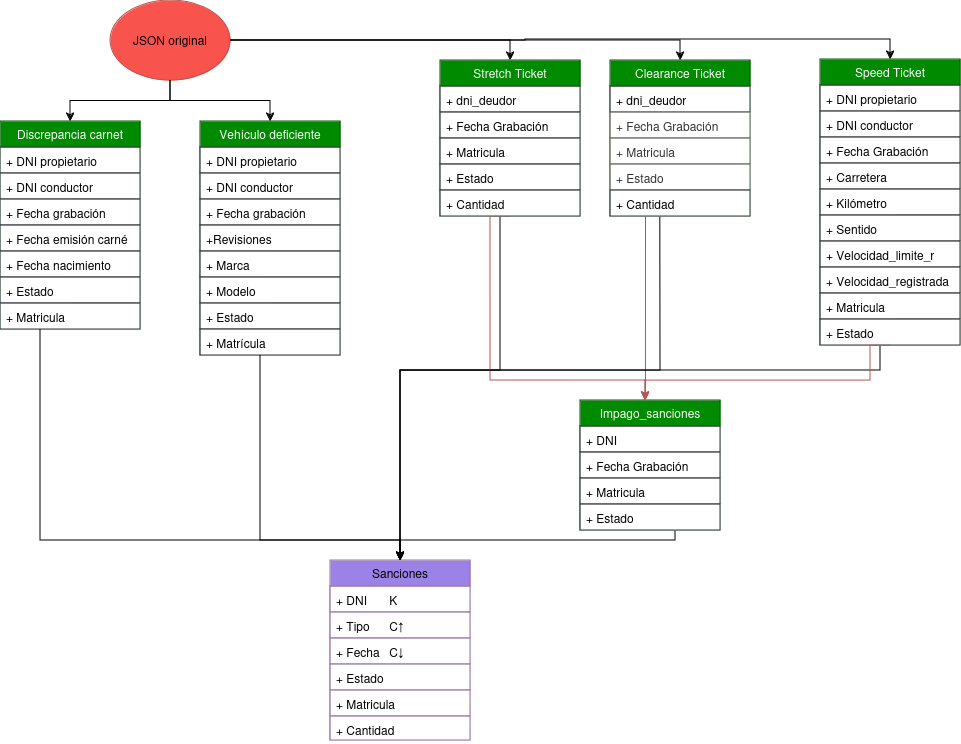
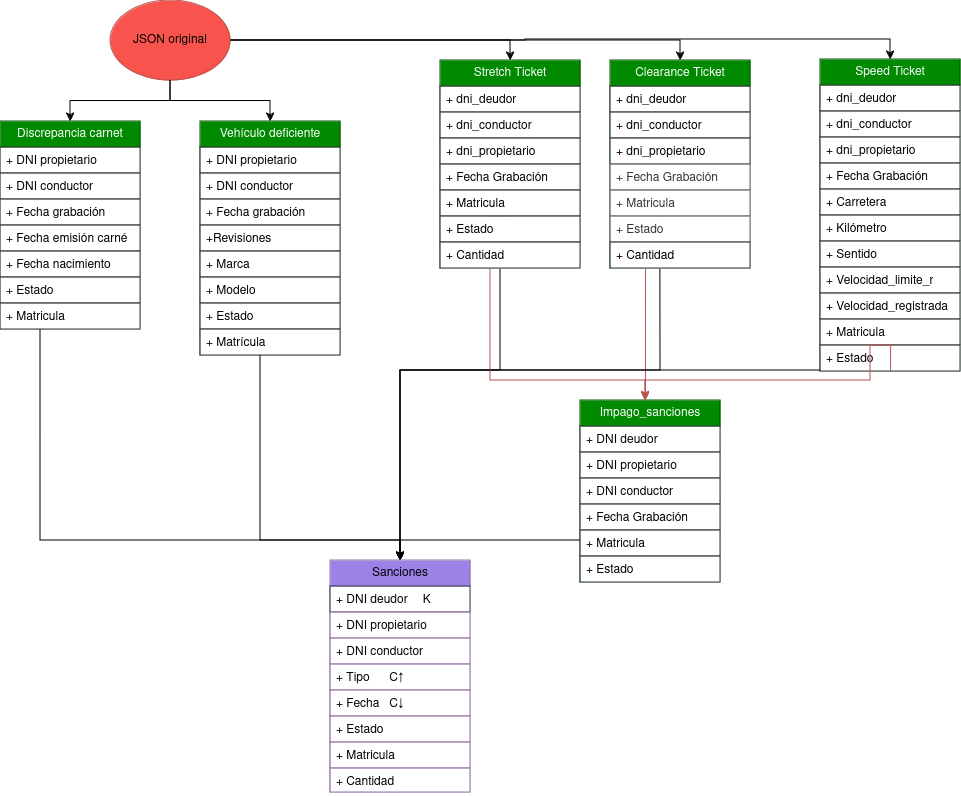
punto 4 corregido

Changed region(s): [[0.0, 0.0309, 1.0, 0.9892], [0.4058, 0.4637, 0.437, 0.4946], [0.2497, 0.711, 0.281, 0.7419]]

diff --git a/entregable3/docs/memoria.tex b/entregable3/docs/memoria.tex
@@ -13,6 +13,16 @@
 \usepackage{amsmath}
 
 
+% Configurar el color de los enlaces
+\hypersetup{
+    colorlinks=true, % Activa el color en los enlaces
+    linkcolor=blue,  % Color para los enlaces internos (por ejemplo, tablas de contenido)
+    citecolor=black,  % Color para las citas bibliográficas
+    filecolor=blue,  % Color para enlaces a archivos
+    urlcolor=blue    % Color para los enlaces a URLs
+}
+
+
 \definecolor{miverde}{rgb}{0,0.6,0}
 \definecolor{miazul}{rgb}{0.5,0.5,1}
 \lstdefinelanguage{cql}{
@@ -84,8 +94,10 @@
 \newpage
 
 \renewcommand{\contentsname}{\centering Índice}
-\tableofcontents
 
+\hypersetup{linkcolor=black}
+\tableofcontents
+\hypersetup{linkcolor=blue}
 \newpage
 
 \section{Introducción}
@@ -399,33 +411,62 @@ select conductor_igual_propietario, count(*) from probabilidad_infraccion GROUP 
 
 \section{Modelo Lógico y Físico}
 \label{sec:modelo_logico_fisico}
+
 Tras presentar los casos de uso y cómo estos casos de uso derivan en sus
 respectivas consultas y tablas, estudiaremos cómo se ha realizado el modelo
-completo del sistema para conseguir las tablas antes mencionadas se carguen con
+completo del sistema para conseguir que dichas tablas se carguen con
 los datos necesarios.
 
 \subsection{Modelo Lógico}
 
-El primer enfoque que se ha considerado es conseguir alimentar la tabla \textbf{Sanciones} con aquellas personas que tenga algún tipo de sanción. Por lo que para alimentar esta tabla tenemos que tratar dos grupos de sanciones: sanciones generadas y sanciones emitidas previamente.
+El primer enfoque que se ha considerado es conseguir alimentar la tabla
+\textbf{Sanciones} con aquellas personas que tenga algún tipo de sanción. Por
+lo que para alimentar esta tabla tenemos que tratar dos grupos de sanciones:
+sanciones generadas y sanciones emitidas previamente.
+
 \begin{itemize}
-    \item \textbf{Sanciones ya generadas}: En los datos originales encontramos sanciones ya emitidas con anterioridad como lo son \textit{Speed Ticket}, \textit{Clearance Ticket} y \textit{Stretch Ticket}, por lo que ha creado un \textit{dataframe} en \textit{Pyspark} para cada una de estas multas.
-    \item \textbf{Nuevas sanciones}: Para generar nuevas sanciones se han contemplado las condiciones anteriormente mencionadas, y para cada una de estas se ha generado un \textit{dataframe} en \textit{Pyspark} que parte de los datos del \textit{JSON}, excepto para el caso de \textit{impago de sanciones} que utilizará los dataframes de las multas para conocer qué conductores deben de recibir otra infracción. En cada uno de los \textit{dataframes} se insertarán los datos que cumplan la condición, de manera que solo contengan los datos de aquellos conductores infractores. Finalmente los \textit{dataframes} creados han sido los siguientes: \texttt{Discrepancia\_Carnet}, \texttt{Vehiculo\_Deficiente}, \texttt{Impago\_Sanciones}
+    \item \textbf{Sanciones ya generadas}: En los datos originales encontramos
+    sanciones ya emitidas con anterioridad como lo son \textit{Speed Ticket},
+    \textit{Clearance Ticket} y \textit{Stretch Ticket}, por lo que ha creado
+    un \textit{dataframe} en \textit{Pyspark} para cada una de estas multas.
+
+    \item \textbf{Nuevas sanciones}: Para generar nuevas sanciones se han
+    contemplado las condiciones descritas en el punto \ref{subsec:funciones_operativas}.
+    Para cada una de
+    ellas se ha generado un \textit{dataframe} en \textit{Pyspark} que parte de
+    los datos del \textit{JSON}, excepto en el caso de \textit{impago de
+    sanciones} que utilizará los dataframes de las multas para conocer qué
+    conductores deben de recibir otra infracción. En cada uno de los
+    \textit{dataframes} se insertarán los datos que cumplan la condición, de
+    manera que solo contengan los datos de aquellos conductores infractores.
+    Finalmente los \textit{dataframes} creados han sido los siguientes:
+    \texttt{Discrepancia\_Carnet}, \texttt{Vehiculo\_Deficiente},
+    \texttt{Impago\_Sanciones}
 \end{itemize}
 
-Cada de uno de los \textit{dataframes} mencionados tendrá únicamente los atributos necesarios para alimentar la tabla de \textit{Sanciones} y cualquier otra tabla que satisfaga a un caso de uso.
-La tabla \textit{Sanciones} será la unión de algunos atributos de cada una de los \textit{dataframes} mencionados y tal omo se ha indicado en el anterior punto, \textit{Sanciones} cuenta con los atributos \texttt{dni\_deudor}, \texttt{tipo}, \texttt{fecha\_grabación}, \texttt{estado}, \texttt{matricula}, \texttt{cantidad}; por lo que será necesario que los dataframes tengan esta información, o al menos pueda ser obtenida de algún modo.
-\newline
+Cada de uno de los \textit{dataframes} mencionados tendrá únicamente los
+atributos necesarios para alimentar la tabla de \textit{Sanciones} y cualquier
+otra tabla que satisfaga a un caso de uso.
+La tabla \textit{Sanciones} será la unión de algunos atributos de cada una de
+los \textit{dataframes} mencionados. Tal como se ha indicado en el anterior
+punto, \textit{Sanciones} cuenta con los atributos \texttt{dni\_deudor},
+\texttt{dni\_propietario}, \verb!dni_conductor!, \verb!fecha_grabacion!,
+\verb!matricula!, \verb!cantidad!, y \verb!estado!; por lo que será necesario que los \textit{dataframes} tengan esta
+información, o al menos pueda ser obtenida de algún modo. Esta nueva tabla será
+insertada en \texttt{Cassandra}.
 
 Para ello los \textit{dataframes} anteriores contarán con \texttt{dni\_deudor}, \texttt{fecha\_grabación}, \texttt{matricula}; y si son sanciones emitidas previamente se usará su estado, tipo y cantidad, en cambio para las sanciones generadas se les dotará de una cantidad, el estado de \texttt{stand\_by} y el tipo según la procedencia de la multa.
 \newline
 
-A continuación se puede ver una figura de cómo resultará la tabla \textit{Sanciones}
+A continuación se puede ver un diagrama que recoge el proceso de migración para la creación de la tabla \textit{Sanciones}.
 \begin{figure}[H]
     \centering
     \includegraphics[width=0.8\textwidth]{./imagenes/Sanciones.png}
     \caption{Modelo lógico de Sanciones}
     \label{fig:modelo_sanciones}
 \end{figure}
+
+En verde se representan los \textit{dataframes} auxiliares que se construyen en \textit{Pyspark}.
 
 
 \newpage
